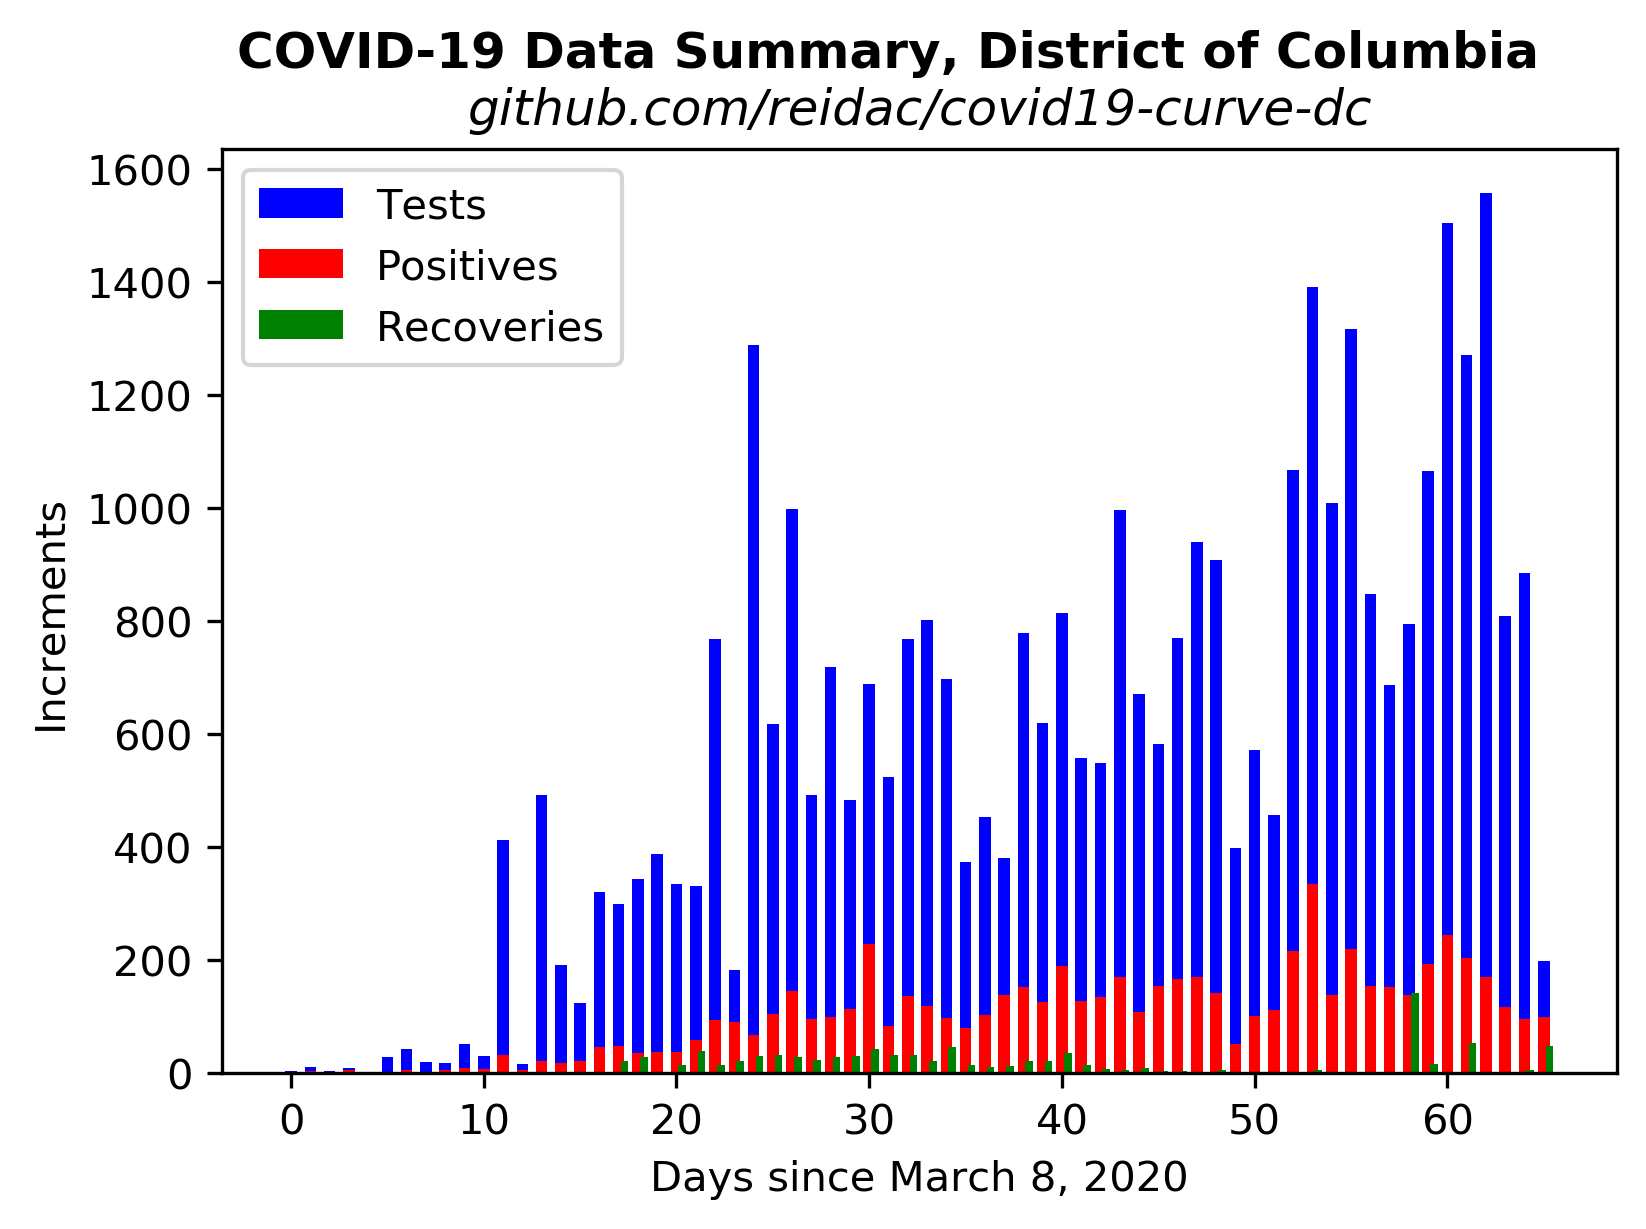
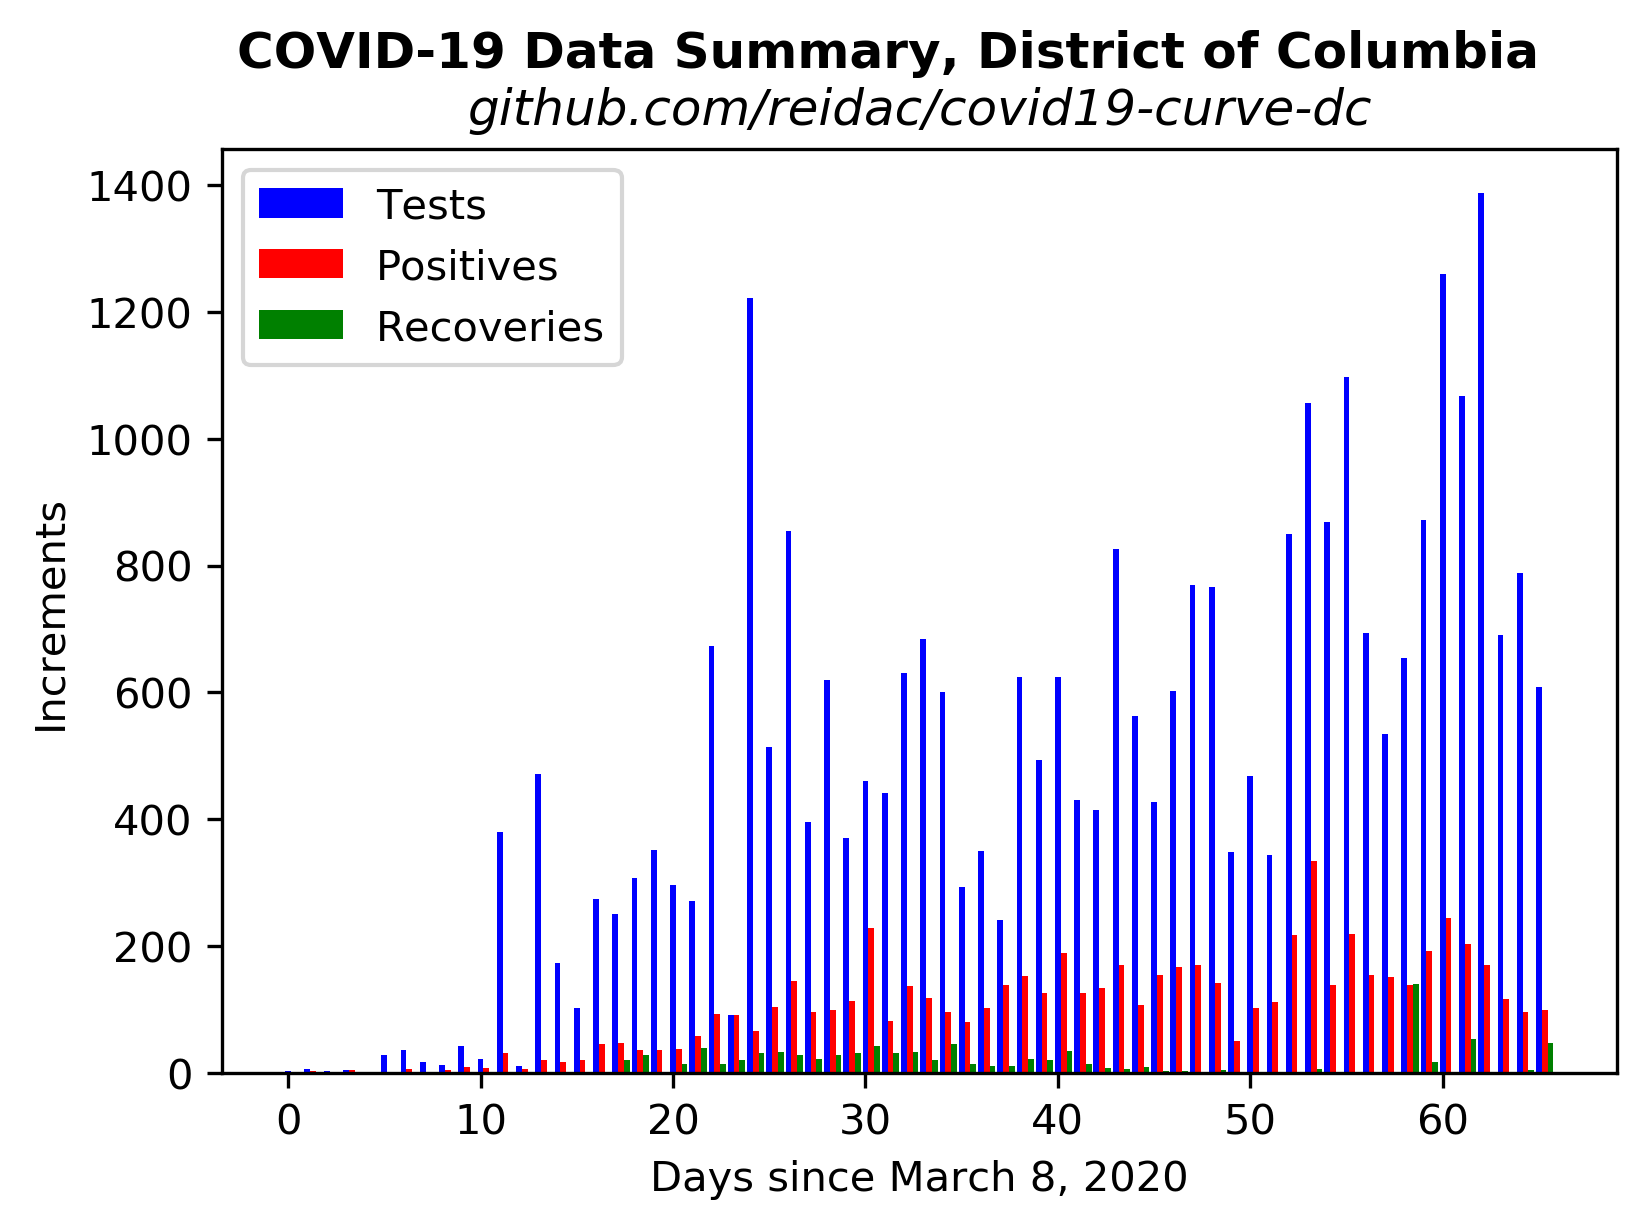
Tinkering with the bar chart.

diff --git a/bars.py b/bars.py
@@ -20,13 +20,9 @@ total_incs = [casedata.total[i+1]-casedata.total[i] for i in range(inclen)]
 pos_incs = [casedata.positive[i+1]-casedata.positive[i] for i in range(inclen)]
 recov_incs = [casedata.recovered[i+1]-casedata.recovered[i] for i in range(inclen)]
 
-# plt.bar(casedata.x,casedata.total,bottom=casedata.positive,color='b')
-# plt.bar(casedata.x,casedata.positive,bottom=casedata.recovered,color='r')
-# plt.bar(casedata.x,casedata.recovered,color='g')
-
-plt.bar(casedata.x[:-1],total_incs,bottom=pos_incs,color='b',width=0.6)
-plt.bar(casedata.x[:-1],pos_incs,color='r',width=0.6)
-plt.bar(casedata.x[:-1]+0.3,recov_incs,color='g',width=0.4)
+plt.bar(casedata.x[:-1],total_incs,color='b',width=0.3)
+plt.bar(casedata.x[:-1]+0.3,pos_incs,color='r',width=0.3)
+plt.bar(casedata.x[:-1]+0.6,recov_incs,color='g',width=0.3)
 
 plt.legend(labels=['Tests','Positives','Recoveries'])
 
